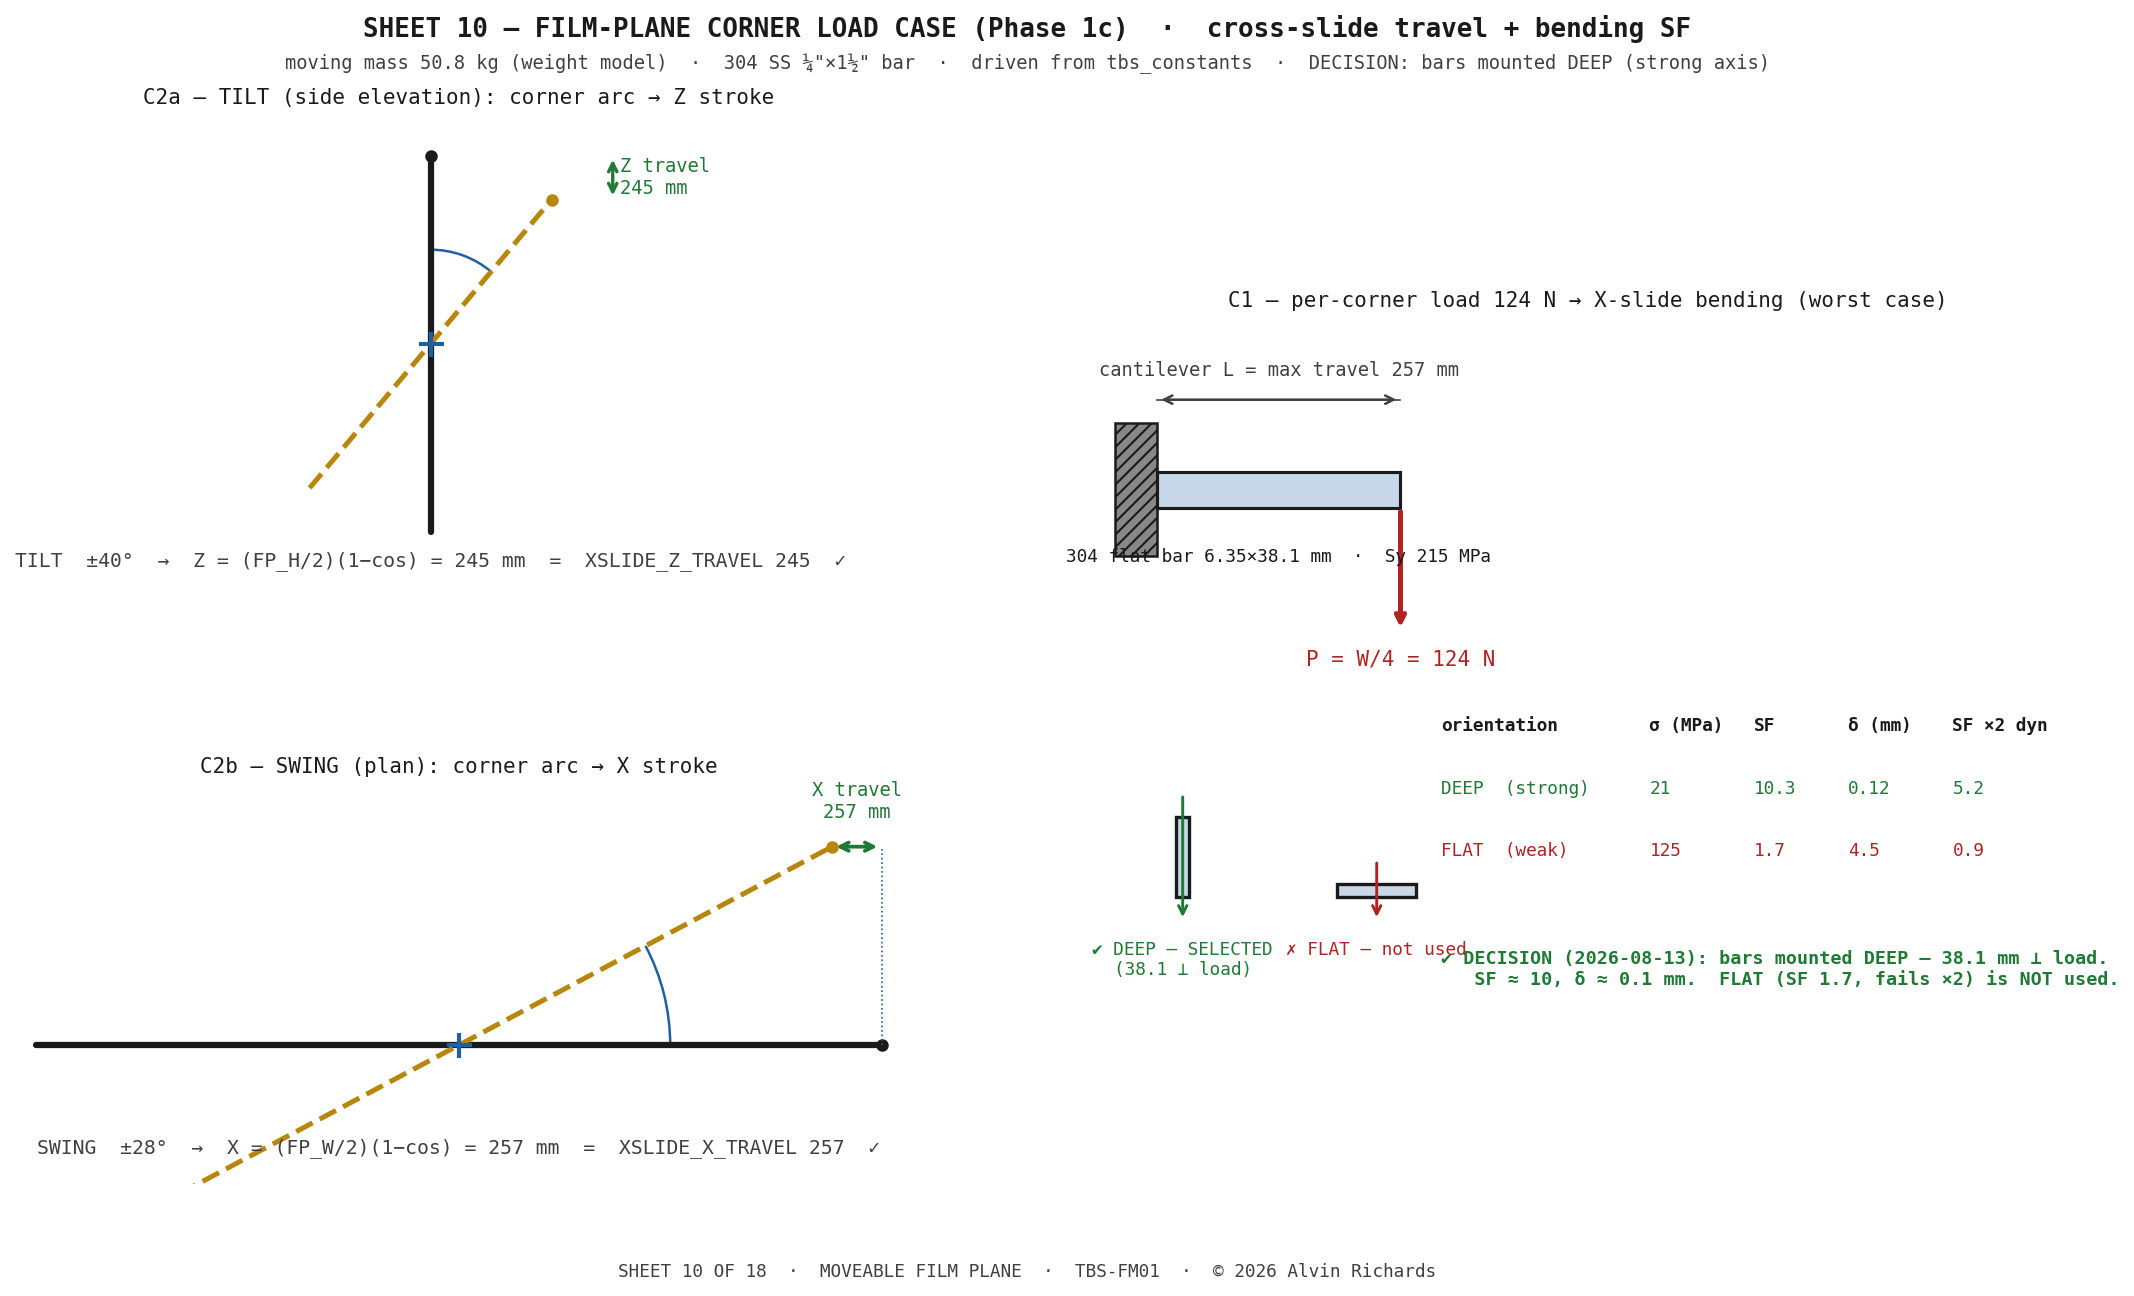
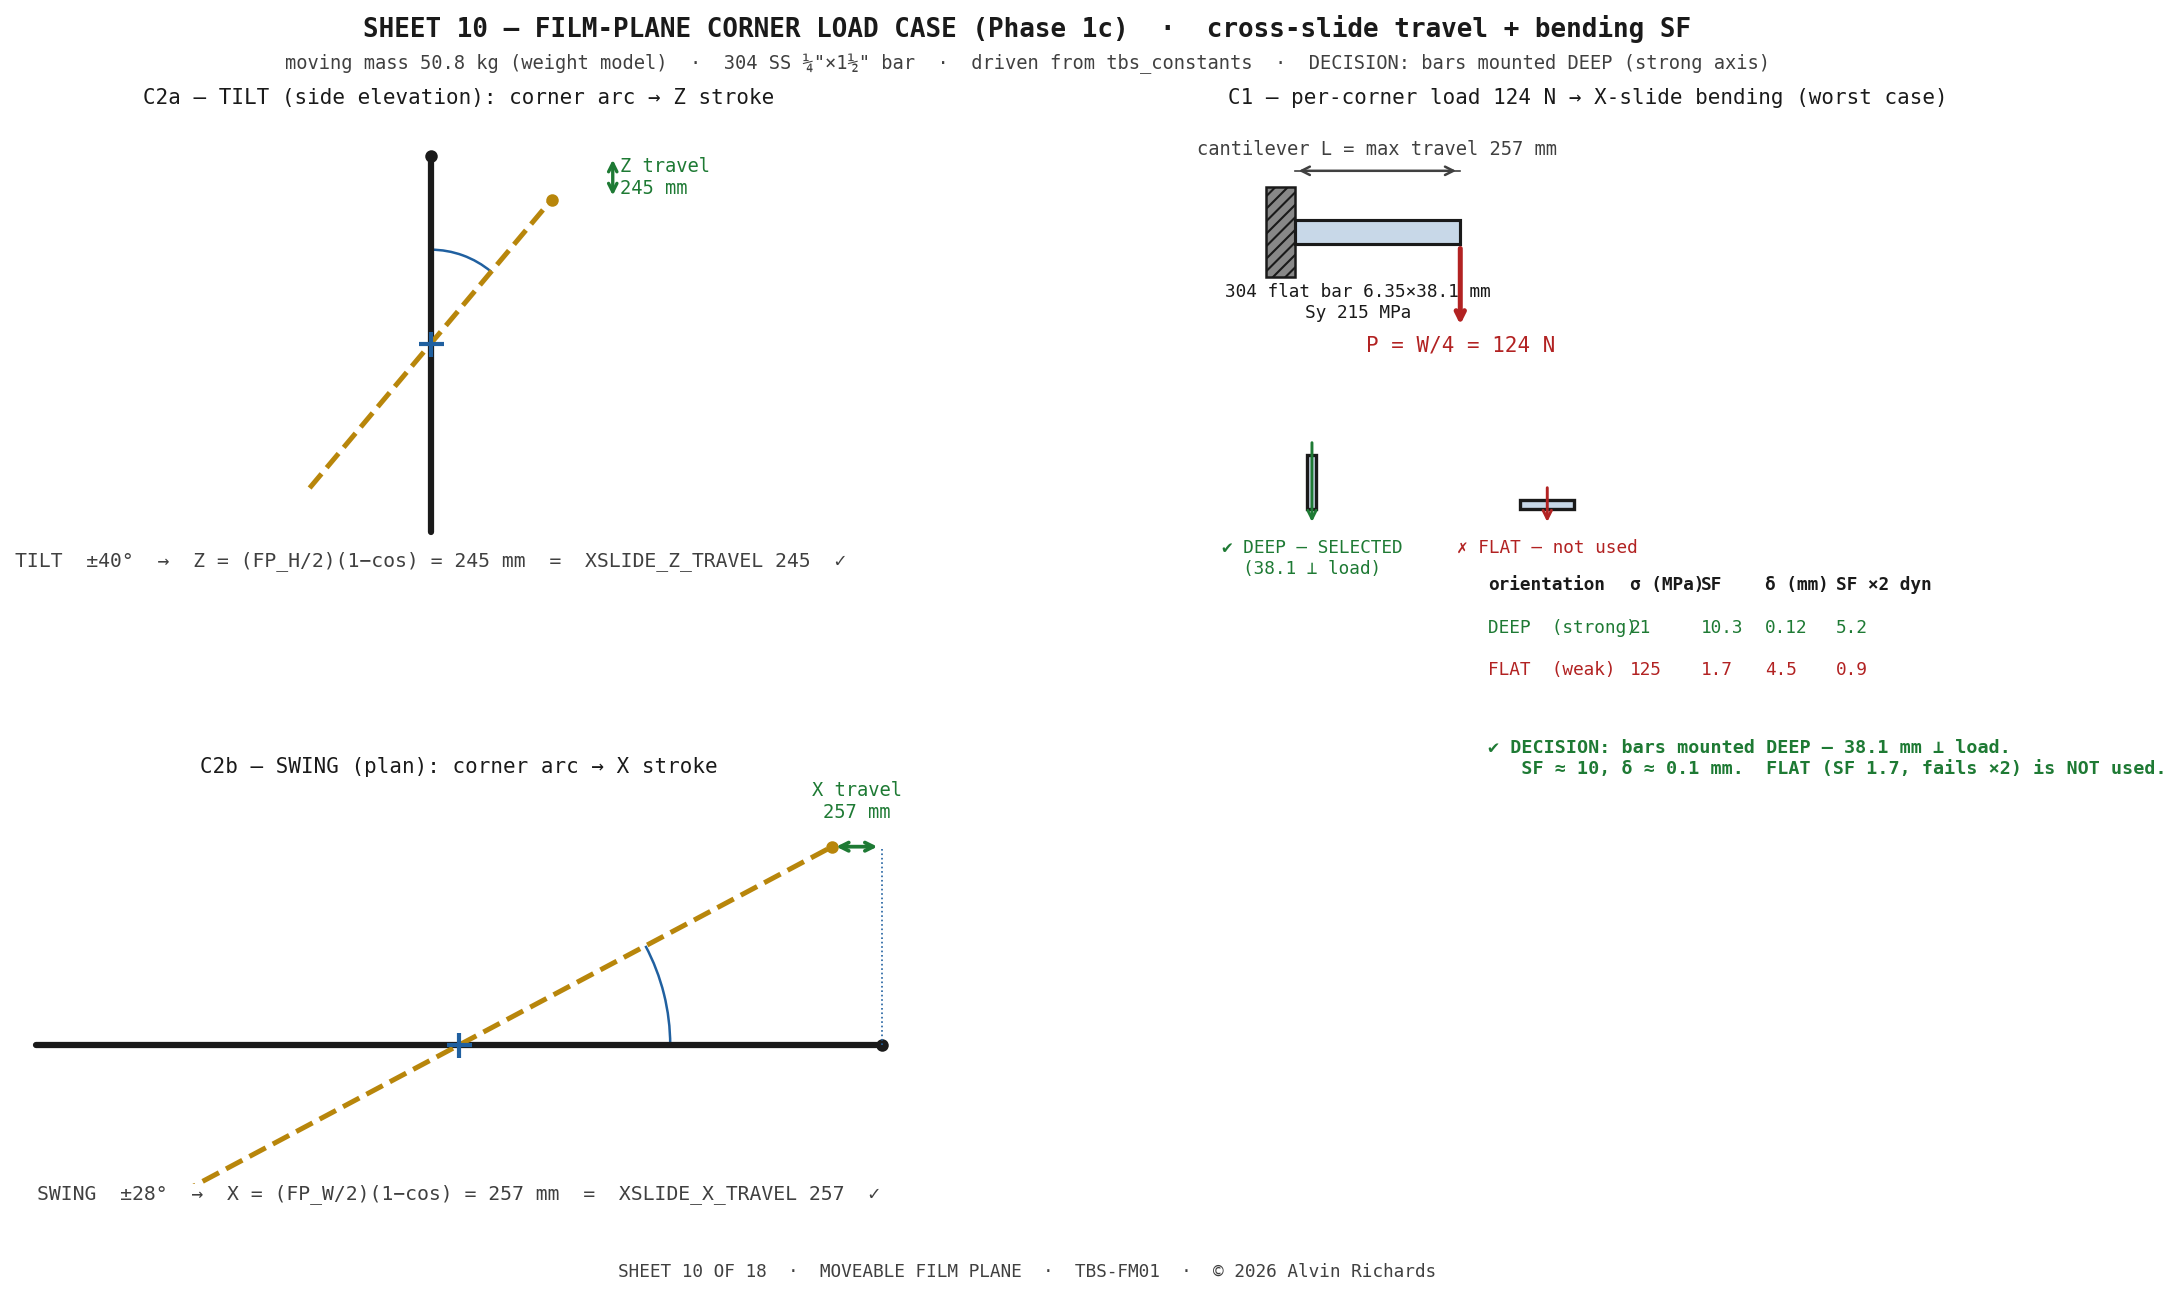
Tidy labels

diff --git a/src/generators/fp_corner_load.py b/src/generators/fp_corner_load.py
@@ -86,7 +86,7 @@ def render_png(path=None):
     gs = fig.add_gridspec(2, 2, width_ratios=[1, 1.12], height_ratios=[1, 1],
                           left=0.05, right=0.97, top=0.88, bottom=0.06, hspace=0.32, wspace=0.20)
     axT, axS = fig.add_subplot(gs[0, 0]), fig.add_subplot(gs[1, 0])
-    axB = fig.add_subplot(gs[:, 1])
+    axB = fig.add_subplot(gs[0, 1])
     for a in (axT, axS, axB):
         a.set_aspect("equal"); a.axis("off")
 
@@ -122,7 +122,7 @@ def render_png(path=None):
     axS.annotate("", xy=(rp[0], rp[1]), xytext=(hw, rp[1]), arrowprops=dict(arrowstyle="<->", color=C_OK, lw=1.8))
     axS.text((rp[0] + hw) / 2, rp[1] + 130, f"X travel\n{xr:.0f} mm", color=C_OK, fontsize=9, ha="center", va="bottom", **FT)
     axS.plot(0, 0, "+", color=C_CL, ms=12, mew=2)
-    axS.text(0, -560, f"SWING  ±{c.MAX_SWING_DEG:g}°  →  X = (FP_W/2)(1−cos) = {xr:.0f} mm  =  "
+    axS.text(0, -800, f"SWING  ±{c.MAX_SWING_DEG:g}°  →  X = (FP_W/2)(1−cos) = {xr:.0f} mm  =  "
              f"XSLIDE_X_TRAVEL {c.XSLIDE_X_TRAVEL}  ✓", color=C_DIM, fontsize=9.5, ha="center", **FT)
     axS.set_xlim(-hw * 1.05, hw * 1.05); axS.set_ylim(-720, rp[1] + 320)
     axS.set_title("C2b — SWING (plan): corner arc → X stroke", fontsize=10, color=C_OUT, **FT)
@@ -136,7 +136,7 @@ def render_png(path=None):
     axB.plot([0, L], [95, 95], color=C_DIM, lw=0.8)
     axB.annotate("", xy=(0, 95), xytext=(L, 95), arrowprops=dict(arrowstyle="<->", color=C_DIM, lw=1.2))
     axB.text(L / 2, 120, f"cantilever L = max travel {L} mm", color=C_DIM, fontsize=9, ha="center", **FT)
-    axB.text(L / 2, -19 - 42, f"304 flat bar {c.XSLIDE_BAR_T:g}×{c.XSLIDE_BAR_W:g} mm  ·  Sy {SY_304:.0f} MPa",
+    axB.text(L / 2 -30 , -19 -60, f"304 flat bar {c.XSLIDE_BAR_T:g}×{c.XSLIDE_BAR_W:g} mm\nSy {SY_304:.0f} MPa",
              color=C_OUT, fontsize=8.5, ha="center", va="top", **FT)
 
     # section insets
@@ -147,19 +147,19 @@ def render_png(path=None):
                      arrowprops=dict(arrowstyle="->", color=col, lw=1.4))
         axB.text(x0 + w / 2, y0 - 46, tag, color=col, fontsize=8.5, ha="center", va="top", **FT)
     section(20, -430, c.XSLIDE_BAR_T * 2.2, c.XSLIDE_BAR_W * 2.2, "✔ DEEP — SELECTED\n(38.1 ⟂ load)", True)
-    section(190, -430, c.XSLIDE_BAR_W * 2.2, c.XSLIDE_BAR_T * 2.2, "✗ FLAT — not used", False)
+    section(350, -430, c.XSLIDE_BAR_W * 2.2, c.XSLIDE_BAR_T * 2.2, "✗ FLAT — not used", False)
 
     tbl = [("orientation", "σ (MPa)", "SF", "δ (mm)", "SF ×2 dyn"),
            ("DEEP  (strong)", f"{sig_s:.0f}", f"{SY_304/sig_s:.1f}", f"{d_s:.2f}", f"{SY_304/(2*sig_s):.1f}"),
            ("FLAT  (weak)", f"{sig_w:.0f}", f"{SY_304/sig_w:.1f}", f"{d_w:.1f}", f"{SY_304/(2*sig_w):.1f}")]
     col_x = [300, 520, 630, 730, 840]     # orientation · σ · SF · δ · SF×2
-    ty, dy = -255, -66
+    ty, dy = -555, -66
     for r, row in enumerate(tbl):
         for col_i, cell in enumerate(row):
             cc = C_OUT if r == 0 else (C_OK if "DEEP" in row[0] else C_BAD)
             axB.text(col_x[col_i], ty + r * dy, cell, color=cc,
                      fontsize=8.5, ha="left", fontweight="bold" if r == 0 else "normal", **FT)
-    axB.text(col_x[0], ty + 3.5 * dy, "✔ DECISION (2026-08-13): bars mounted DEEP — 38.1 mm ⟂ load.\n"
+    axB.text(col_x[0], ty + 3.5 * dy, "✔ DECISION: bars mounted DEEP — 38.1 mm ⟂ load.\n"
              "   SF ≈ 10, δ ≈ 0.1 mm.  FLAT (SF 1.7, fails ×2) is NOT used.",
              color=C_OK, fontsize=8.8, ha="left", va="top", fontweight="bold", **FT)
     axB.set_xlim(-70, 980); axB.set_ylim(-560, 180)
